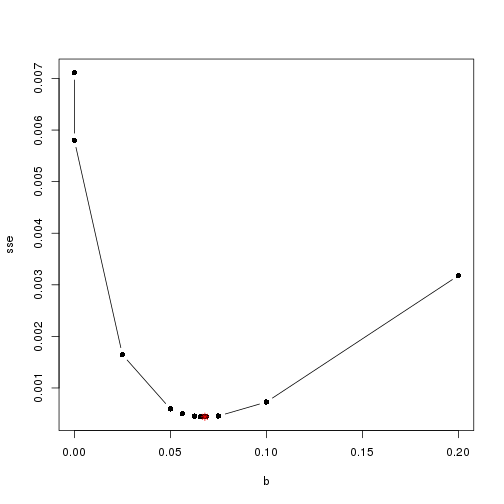
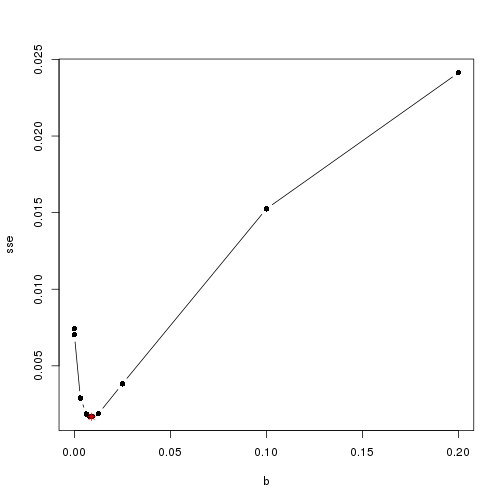
udpdate

diff --git a/vignettes/npbin-ctcf.md b/vignettes/npbin-ctcf.md
@@ -1,0 +1,211 @@
+---
+title: "Estimate overdispersion on the ctcf dataset from the NPBin paper"
+author: "Anthony Aylward"
+date: "2018-08-02"
+output: rmarkdown::html_vignette
+vignette: >
+  %\VignetteIndexEntry{Vignette Title}
+  %\VignetteEngine{knitr::rmarkdown}
+  %\VignetteEncoding{UTF-8}
+---
+
+
+
+## Prepare the data.
+
+This vignette requires the [npbin](https://github.com/anthony-aylward/npbin) 
+package.
+
+
+```r
+library(chenimbalance)
+library(npbin)
+total_reads <- ctcf[["m"]]
+data <- data.frame(
+  total = total_reads,
+  allelicRatio =  ctcf[["xm"]] / ctcf[["m"]]
+)
+data <- data[total_reads >= 5,]
+data <- data[1:2000,]
+head(data)
+#>   total allelicRatio
+#> 1   190    0.5368421
+#> 2   185    0.4864865
+#> 3    16    0.5625000
+#> 4   375    0.2640000
+#> 5    22    1.0000000
+#> 6    40    0.6750000
+```
+
+## Empirical distribution
+
+Compute the empirical allelic ratio distribution
+
+
+```r
+binSize <- 40
+bins <- pretty(0:1, binSize)
+minN <- 6
+maxN <- min(2500, max(data[["total"]]))
+empirical <- empirical_allelic_ratio(
+  data,
+  bins,
+  maxN = maxN,
+  minN = minN,
+  plot = TRUE
+)
+```
+
+![plot of chunk unnamed-chunk-2](figure/unnamed-chunk-2-1.png)
+
+## Expected Binomial and Beta-Binomial distributions
+
+Compute the weighted expected binomial distribution
+
+
+```r
+w <- weight_by_empirical_counts(data[["total"]])
+d_combined_sorted_binned <- nulldistrib(
+  w,
+  minN = minN,
+  binSize = binSize
+)
+```
+
+Compute the sum of squared errors for the empirical distribution vs the 
+weighted expected binomial distribution.
+
+
+```r
+sse <- sum((empirical - d_combined_sorted_binned[,2])^2)
+sse
+#> [1] 0.007432315
+```
+
+Choose the overdispersion parameter for the beta-binomial distribution
+
+
+```r
+w_grad <- graded_weights_for_sse_calculation(r_min = 0, r_max = 1, bins = bins)
+overdispersion_details <- choose_overdispersion_parameter(
+  w_grad,
+  w,
+  empirical,
+  sse
+)
+head(overdispersion_details[["b_and_sse"]])
+#>        b         sse
+#> [1,] 0.0 0.007432315
+#> [2,] 0.1 0.015246404
+#> [3,] 0.2 0.024126144
+#> [4,] 0.0 0.000000000
+#> [5,] 0.0 0.000000000
+#> [6,] 0.0 0.000000000
+```
+
+Generate a plot of the weighted expected binomial and weighted expected 
+beta-binomial distributions overlaid on the empirical distribution
+
+
+```r
+plot_distributions(
+  minN,
+  maxN,
+  bins,
+  empirical,
+  d_combined_sorted_binned,
+  overdispersion_details[["e_combined_sorted_binned"]],
+  yuplimit = 0.15
+)
+```
+
+![plot of chunk unnamed-chunk-6](figure/unnamed-chunk-6-1.png)
+
+`overdispersion_details` is a list whose elements include the chosen value of 
+`b` and the sum of squared errors.
+
+
+```r
+paste(
+  "b_chosen =",
+  overdispersion_details[["b_choice"]],
+  ", SSE_chosen =",
+  overdispersion_details[["sse"]]
+)
+#> [1] "b_chosen = 0.1 , SSE_chosen = 0.0152464044437993"
+```
+
+Optimize the overdispersion parameter
+
+
+```r
+optimized_overdispersion_details <- optimize_overdispersion_parameter(
+  w_grad,
+  overdispersion_details[["b_and_sse"]],
+  overdispersion_details[["b_choice"]],
+  overdispersion_details[["sse"]],
+  empirical,
+  overdispersion_details[["counter"]],
+  minN = minN,
+  binSize = binSize
+)
+plot_distributions(
+  minN,
+  maxN,
+  bins,
+  empirical,
+  d_combined_sorted_binned,
+  optimized_overdispersion_details[["e_combined_sorted_binned"]],
+  yuplimit = 0.15
+)
+```
+
+![plot of chunk unnamed-chunk-8](figure/unnamed-chunk-8-1.png)
+
+Check the optimized value
+
+
+```r
+list(
+  b = optimized_overdispersion_details[["b_choice"]],
+  sse = optimized_overdispersion_details[["sse"]]
+)
+#> $b
+#> [1] 0.008984375
+#> 
+#> $sse
+#> [1] 0.001672135
+```
+
+Plot the parameter search space
+
+
+```r
+b_and_sse <- (
+  optimized_overdispersion_details[["b_and_sse"]]
+  [1:(optimized_overdispersion_details[["counter"]] + 2),]
+)
+plot(
+  b_and_sse[order(b_and_sse[,1]),],
+  type = "b",
+  pch = 16,
+  xlim = c(min(b_and_sse[,1]), max(b_and_sse[,1])),
+  ylim = c(min(b_and_sse[,2]), max(b_and_sse[,2]))
+)
+par(new = TRUE)
+plot(
+  optimized_overdispersion_details[["b_choice"]],
+  optimized_overdispersion_details[["sse"]],
+  bty = "n",
+  ylab = "",
+  xlab = "",
+  yaxt = "n",
+  xaxt = "n",
+  col = "red",
+  pch = 8,
+  xlim = c(min(b_and_sse[,1]), max(b_and_sse[,1])),
+  ylim = c(min(b_and_sse[,2]), max(b_and_sse[,2]))
+)
+```
+
+![plot of chunk unnamed-chunk-10](figure/unnamed-chunk-10-1.png)
